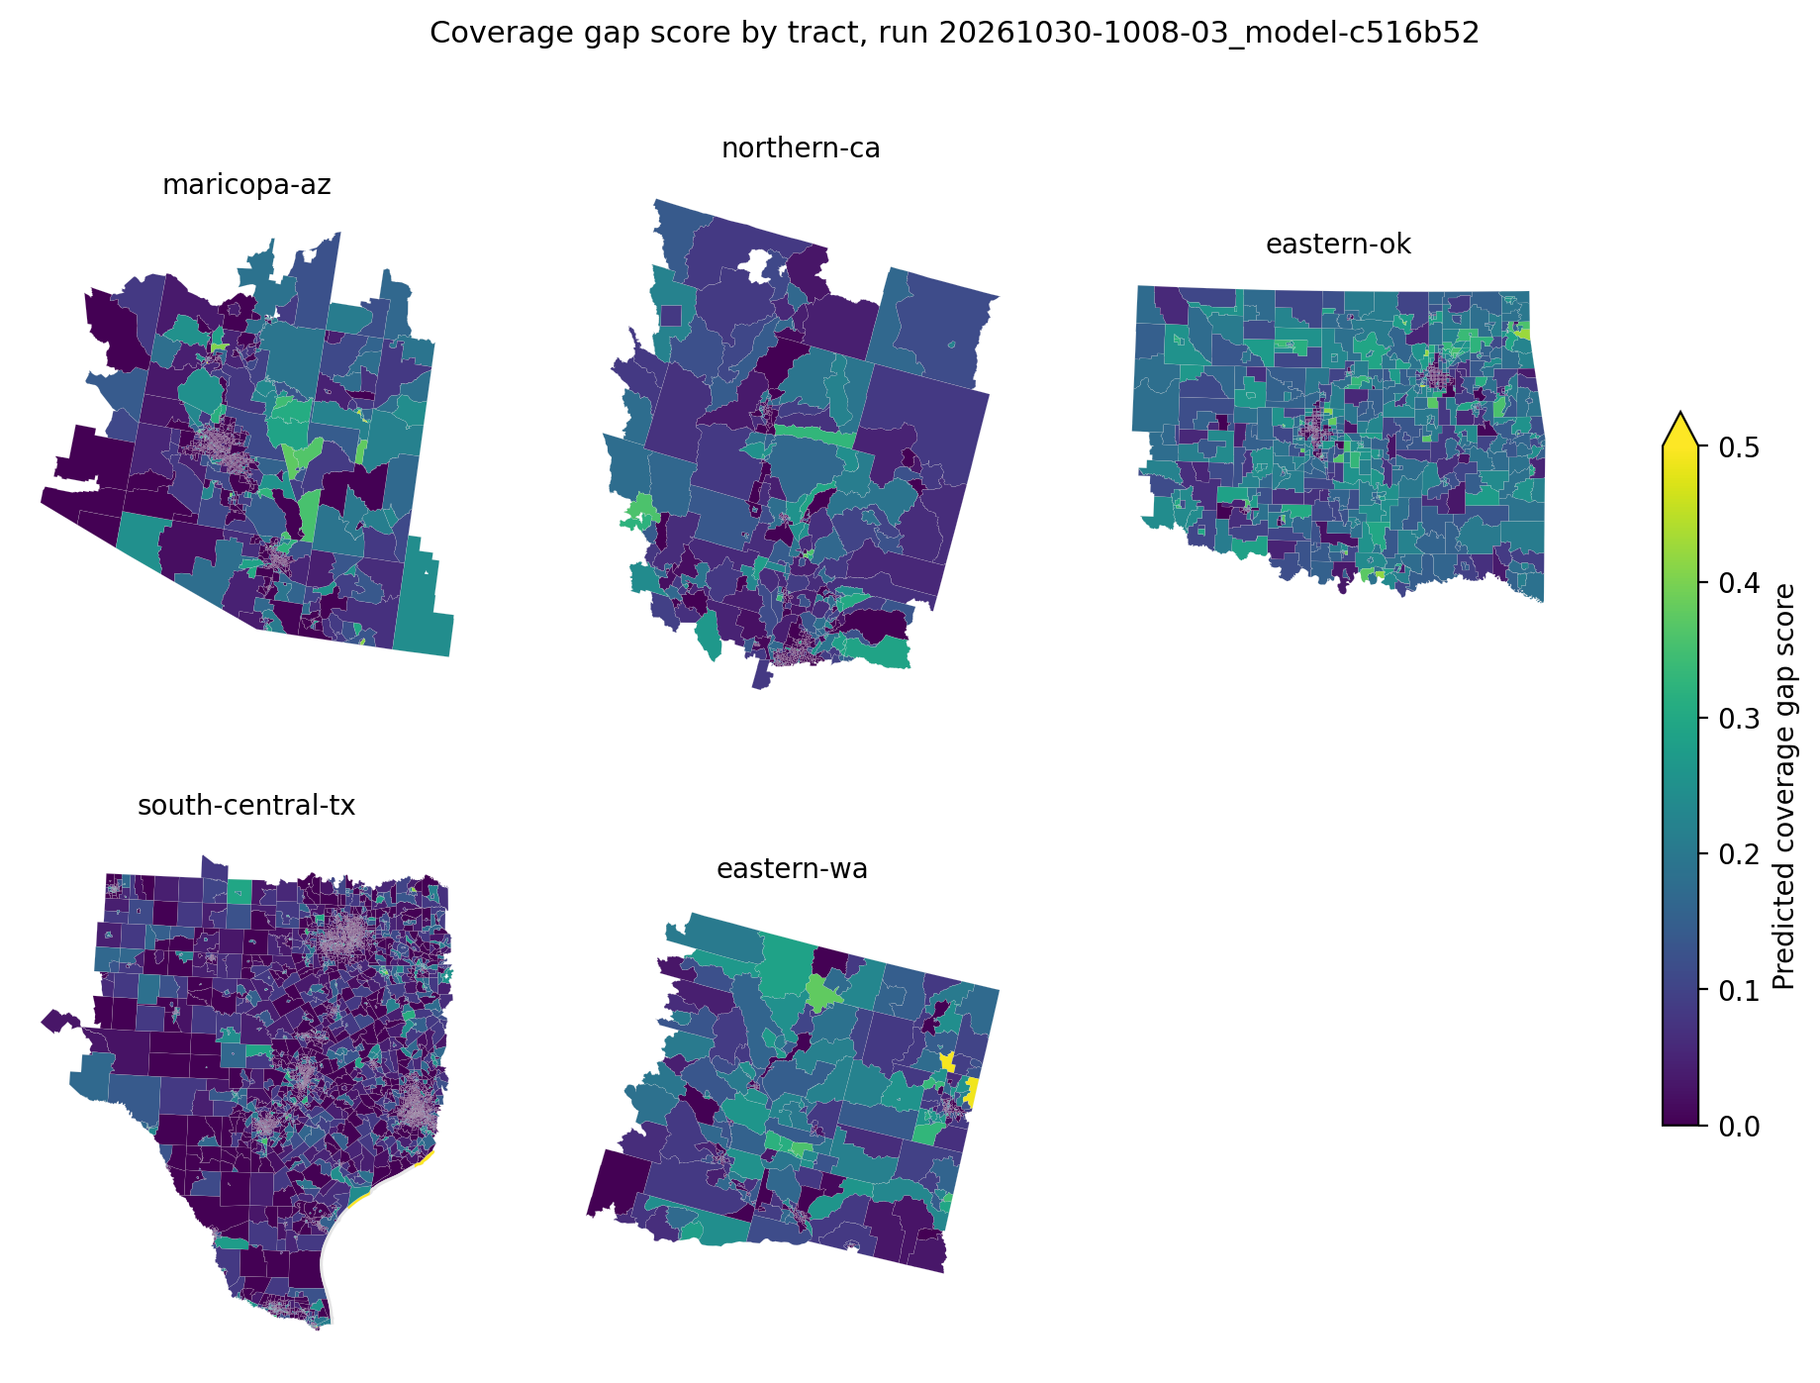
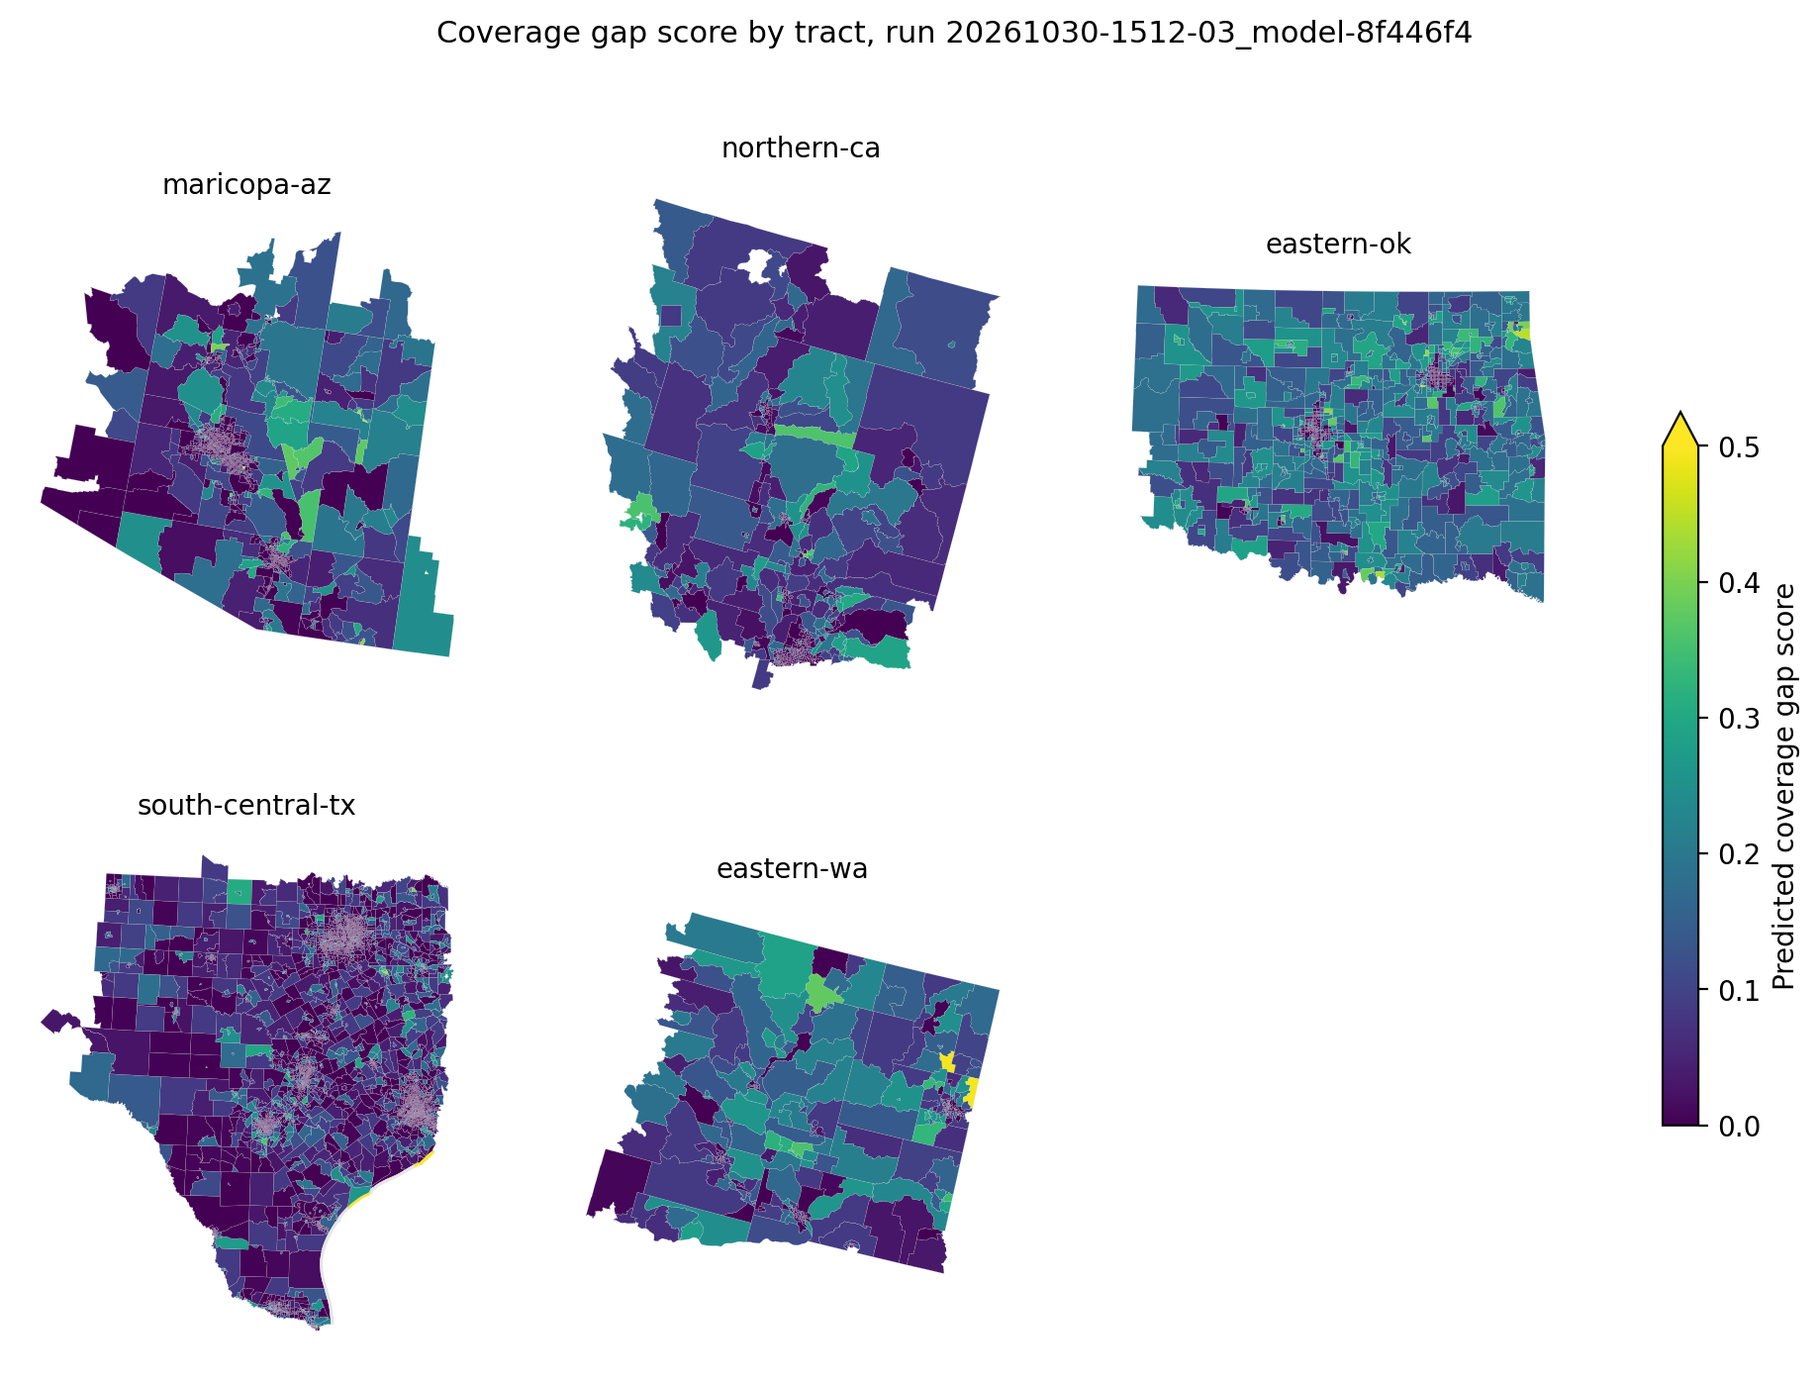
docs(writeup): make s25 final a and document global ml footprints

diff --git a/docs/writeup/methodology.tex b/docs/writeup/methodology.tex
@@ -31,7 +31,7 @@ Bias Bounty Mapping Equity Challenge}}
 
 \author[1]{Craig Carlos Ouma\thanks{%
 Correspondence: \texttt{craigcarlos95@gmail.com}. Zindi: \zindiuser. Final
-submissions: S24 (\texttt{EC3xBxjr}) and S19 (\texttt{Ekx9Rx3y}). Code:
+submissions: S25 (\texttt{2ncgdcQQ}) and S24 (\texttt{EC3xBxjr}). Code:
 private repository, released to Zindi reviewers on request.}}
 \affil[1]{Independent Researcher}
 \date{\today}
@@ -51,8 +51,10 @@ layers that the organisers removed from the challenge bucket on 25 September
 challenge package brought the public RMSE from 0.1072 for the all-zero file to
 0.0745. After Zindi staff confirmed on 27 October that the public versions of
 those layers could be used, the pipeline rebuilt the reference side of each component from those sources and
-reached 0.02996 (submission S19), then 0.02380 (S24) once ZIP establishment
-counts were apportioned to tracts by HUD business-address ratios. The rebuilt
+reached 0.02996 (submission S19), 0.02380 (S24) once ZIP establishment
+counts were apportioned to tracts by HUD business-address ratios, and 0.02152
+(S25) once the building reference was rebuilt from Microsoft's Global ML
+footprints. The rebuilt
 transport component reproduces
 the organisers' published undefined rates to within one percentage point in
 all four documented regions, and their published spread of road length ratios
@@ -101,8 +103,8 @@ Section~\ref{sec:scorecard} reflects on the scorecard and
 Section~\ref{sec:bias} presents the bias discovery.
 
 All submissions were made by Zindi user \zindiuser{}, entering solo.
-The two submissions selected for private scoring are S24 (public RMSE
-0.023796, Zindi ID \texttt{EC3xBxjr}) and S19 (0.029961, \texttt{Ekx9Rx3y}),
+The two submissions selected for private scoring are S25 (public RMSE
+0.021520, Zindi ID \texttt{2ncgdcQQ}) and S24 (0.023796, \texttt{EC3xBxjr}),
 described in Section~\ref{sec:final}; the
 others referred to in this paper are listed in Table~\ref{tab:history}.
 
@@ -160,20 +162,21 @@ if any reader bypasses it.
 \centering
 \small
 \caption{Reference sources rebuilt from their publishers. ``Final'' marks the
-sources used by the selected submissions S24 and S19.}
+sources used by the selected submissions S25 and S24.}
 \label{tab:sources}
 \resizebox{\textwidth}{!}{%
 \begin{tabular}{llll}
 \toprule
 Source & Vintage & Used for & Final \\
 \midrule
-Census TIGER/Line primary and secondary roads (S1100, S1200) & 2025 & transport reference & S24, S19 \\
-USGS National Map structures, fire stations (FCODE 74026) & 2026 & fire reference & S24, S19 \\
-USGS National Map structures, schools (FCODE 73002 to 73005) & 2026 & school reference & S24, S19 \\
-Census ZIP Code Business Patterns, establishments per ZIP & 2023 & establishments reference & S24 \\
-HUD USPS ZIP-TRACT crosswalk, business-address ratios & Q4 2024 & apportioning ZIP counts & S24 \\
+Census TIGER/Line primary and secondary roads (S1100, S1200) & 2025 & transport reference & S25, S24 \\
+USGS National Map structures, fire stations (FCODE 74026) & 2026 & fire reference & S25, S24 \\
+USGS National Map structures, schools (FCODE 73002 to 73005) & 2026 & school reference & S25, S24 \\
+Census ZIP Code Business Patterns, establishments per ZIP & 2023 & establishments reference & S25, S24 \\
+HUD USPS ZIP-TRACT crosswalk, business-address ratios & Q4 2024 & apportioning ZIP counts & S25, S24 \\
 Census 2020 ZCTA to tract relationship file & 2020 & apportioning ZIP counts (S20) & no \\
 USGS National Map structures, ambulance services (FCODE 74034) & 2026 & EMS reference (S21) & no \\
+Microsoft Global ML Building Footprints & 2026-02-03 & building reference & S25 \\
 Microsoft US Building Footprints & v2 & building reference (S18) & no \\
 HIFLD Open archive: fire and EMS stations, public and private schools & 2025 & S22 & no \\
 \bottomrule
@@ -206,7 +209,7 @@ Table~\ref{tab:stages} their measured cost.
   arr/.style={-{Stealth[length=2mm]}, draw=navy}]
 \node[box] (feat) at (4.2, 2.4) {02 features\\per-tract Overture};
 \node[ext] (est) at (4.2, 0.8) {07 establishments\\ZBP, HUD crosswalk};
-\node[ext] (ref) at (4.2, -0.8) {05 reference\\TIGER, Microsoft};
+\node[ext] (ref) at (4.2, -0.8) {05, 10 reference\\TIGER, Microsoft};
 \node[ext] (fac) at (4.2, -2.4) {06 facilities\\USGS structures};
 \node[box] (ingest) at (0, 0) {01 ingest\\bucket sync, audit};
 \node[box] (model) at (8.4, 0) {03 model\\components, composite};
@@ -240,9 +243,11 @@ Stage & Run & Wall (min) & Peak RSS (GB) \\
 05 reference & 20261027-2145-05\_reference-0add93b & 33.9 & 3.55 \\
 06 facilities & 20261028-0024-06\_facilities-8d8b042 & 8.7 & 0.49 \\
 07 establishments & 20261030-0946-07\_establishments-decc7f9 & 1.2 & 0.22 \\
+10 Global ML & 20261030-1127-10\_globalml-2221625 & 33.8 & 2.13 \\
+03 model (S25) & 20261030-1227-03\_model-45a6fcc & 1.7 & 0.56 \\
 03 model (S24) & 20261030-0947-03\_model-30d804e & 1.4 & 0.55 \\
-03 model (S19) & 20261028-0947-03\_model-672866c & 3.6 & 0.60 \\
 04 analysis & 20261030-1019-04\_analysis-8a838bb & 24.3 & 0.80 \\
+04 analysis (S25 map) & 20261030-1514-04\_analysis-7cec170 & 21.6 & 0.80 \\
 \bottomrule
 \end{tabular}
 \end{table}
@@ -325,16 +330,22 @@ Eastern Washington & 0.248 & n/a & 0.965 & 0.199 \\
 \subsection{Building}
 
 $O$ is the count of Overture footprints whose centroid falls in the tract and
-$R$ the Microsoft footprint count. The public Microsoft US Building Footprints
-v2 release was rebuilt per tract (S18); it gives a mean $B$ of 0.003 and
-raised the public RMSE from 0.0491 to 0.0546, so the organisers' footprint
-release differs from the public file in ways that matter at tract level. The
-final submissions therefore set $B = 0$ wherever Overture has footprints, and
-$B = 1$ where it has none and the tract is still expected to hold structures
-(Section~\ref{sec:edge}). $B$ is defined wherever Overture has footprints or
-ACS reports housing units. The level of $B$ is the one leaderboard-tuned
-scalar in S19: a constant baseline gap tested at 0.01 and 0.05 (S13), with 0
-chosen.
+$R$ the Microsoft footprint count, also by centroid. The public Microsoft US
+Building Footprints v2 release, rebuilt per tract (S18), gives a mean $B$ of
+0.003 and raised the public RMSE from 0.0491 to 0.0546. The centroid counting
+was checked independently: the Overture and US v2 counts per tract equal a
+competitor's published counts from the same public files in all 415 Eastern
+Washington tracts. The organisers' release is therefore a different one.
+Microsoft's Global ML Building Footprints \cite{globalml}, release 2026-02-03,
+downloaded by stage 10 as the zoom-9 quadkey files covering each region, holds
+6 to 17\,\% more footprints than US v2 in every region. Used as $R$ in S25,
+it makes $B$ positive in 31\,\% of tracts with a mean of 0.0056, changes 5,644
+tracts, and lowered the public RMSE from 0.0238 to 0.0215; the line search along
+S24 to S25 gave $t^\ast = 1.22$. $B$ is defined wherever Global ML has a
+footprint in the tract. S24 instead sets $B = 0$ wherever Overture has
+footprints and $B = 1$ where it has none and the tract holds housing units,
+with the level of $B$ the one leaderboard-tuned scalar it uses (a constant
+baseline gap tested at 0.01 and 0.05 in S13, with 0 chosen).
 
 \subsection{Points of interest}
 
@@ -401,7 +412,7 @@ probability is 0 or 1.
 \section{Edge cases}
 \label{sec:edge}
 
-\paragraph{Zero-population tracts.} Population enters no formula. In S24, $E$
+\paragraph{Zero-population tracts.} Population enters no formula. In S25 and S24, $E$
 is defined wherever the apportioned establishment count is positive, which
 holds in 22 of the 27 scored tracts without residents (airports, parks,
 industrial land); its gap is 0 in all of them because Overture holds more
@@ -414,11 +425,11 @@ dropped from the scored list by the organisers. Two remain,
 \texttt{48039990000} (Brazoria County) and \texttt{48057990000} (Calhoun
 County). Neither has residents, a TIGER primary or secondary road, a USGS
 fire station or school, an Overture place or an Overture footprint. The
-public Microsoft file holds five footprints in the first, likely offshore
-structures, and none in the second. Because a scored tract must have a
-defined component, the building component is the only one that can be
-defined, and with no Overture footprints its gap is 1. Both are written with $B = 1$ and a
-composite of 1.
+Global ML file holds one footprint in the first and 48 in the second, likely
+offshore and shoreline structures, so the building component is defined in
+both; with no Overture footprints its gap is 1. Both are written with $B = 1$
+and a composite of 1, which is also the only value consistent with a scored
+tract having a defined component.
 
 \paragraph{Tracts with no Overture data in a layer.} The Overture count or
 length is 0, so the gap is 1 wherever the reference is positive and the
@@ -479,12 +490,13 @@ S14 & Combined levels & 0.07454 & Best estimate-only method \\
 S15 & Fire stations drive the facility half & 0.07716 & Partly kept \\
 S17 & Transport rebuilt from TIGER 2025 & 0.04906 & Kept \\
 S18 & Building rebuilt from Microsoft US v2 & 0.05462 & Dropped \\
-S19 & Fire and school gaps from USGS structures, $E = 0$ & 0.02996 & Final B \\
+S19 & Fire and school gaps from USGS structures, $E = 0$ & 0.02996 & Superseded \\
 S20 & S19 with ZBP establishments apportioned by places & 0.03153 & Dropped \\
 S21 & S19 with EMS from USGS ambulance services & 0.04289 & Dropped \\
 S22 & S19 with HIFLD schools & 0.04136 & Dropped \\
 S23 & A competitor's published file, uploaded as a benchmark & 0.00227 & Not ours \\
-S24 & S19 with ZBP establishments apportioned by HUD business ratios & 0.02380 & Final A \\
+S24 & S19 with ZBP establishments apportioned by HUD business ratios & 0.02380 & Final B \\
+S25 & S24 with the building gap against Microsoft Global ML & 0.02152 & Final A \\
 \bottomrule
 \end{tabular}}
 \end{table}
@@ -513,7 +525,8 @@ The project allowed at most six global scalars tuned on the public
 leaderboard. Five were used during the estimation phase: the boundary
 distance (25\,m from 0, 25, 50), the POI level (0.779), the transport value
 scale (1.15), the building baseline gap (0 from 0.01 and 0.05) and the fire
-model strength (0.3). The rebuilt method uses only the building baseline gap.
+model strength (0.3). S25 uses none of them; S24 uses only the building
+baseline gap.
 
 \subsection{Final selection}
 \label{sec:final}
@@ -521,17 +534,19 @@ model strength (0.3). The rebuilt method uses only the building baseline gap.
 \begin{figure}[htbp]
 \centering
 \includegraphics[width=\textwidth]{fig_map_scores.png}
-\caption{S24 coverage gap score by tract, drawn by stage 04 from the S24
-reproduction run. Scores above 0.5 share the top colour.}
+\caption{S25 coverage gap score by tract, drawn by stage 04 from the S25
+reproduction run (analysis run \nolinkurl{20261030-1514-04_analysis-7cec170}). Scores above 0.5 share the top colour.}
 \label{fig:map_scores}
 \end{figure}
 
-Figure~\ref{fig:map_scores} maps the S24 scores.
+Figure~\ref{fig:map_scores} maps the S25 scores.
 
-S24 is the best public score of this pipeline and depends on one tuned
-scalar. S19 is the same method with the establishments half at 0. It differs
-from S24 in 253 tracts and hedges the private split against the case where the
-HUD apportionment fits the public tracts better than the private ones. S23 was
+S25 is the best public score of this pipeline and depends on no tuned
+scalar: every component is computed from a public reference. S24 is the same
+method with the building gap held at 0 where Overture has footprints. It
+differs from S25 in 5,644 tracts by small amounts and hedges the private split
+against the case where the Global ML reference fits the public tracts better
+than the private ones. S23 was
 a competitor's published file, uploaded once to see its score. It was not
 produced by this pipeline, its inputs include the organisers' removed
 reference files, and it is not selected.
@@ -542,10 +557,10 @@ reference files, and it is not selected.
 The scorecard reports disparity ratios of the predicted score between strata.
 For the all-zero file every ratio was unavailable. Under the estimation phase
 (S13) the tribal ratio was 1.30 and the rural ratio 1.25. On the scorecard for
-S24 they are 2.92 for tribal against non-tribal tracts, 2.42 for rural against
-urban, 1.22 for high social vulnerability, 1.46 for high climate
-vulnerability and 1.81 for wildfire hazard, with summer heat the one stratum
-where the gap is smaller (0.54). The rise comes
+S25 they are 2.85 for tribal against non-tribal tracts, 2.41 for rural against
+urban, 1.21 for high social vulnerability, 1.46 for high climate
+vulnerability, 1.47 for winter drought and 1.81 for wildfire hazard, with
+summer heat the one stratum where the gap is smaller (0.56). The rise comes
 mostly from transport in Eastern Oklahoma, where 805 of 1,192 scored tracts
 overlap a tribal area and the mean transport gap where defined is 0.355,
 against 0.123 in South-Central Texas, and from fire stations, whose gap where
@@ -758,11 +773,11 @@ The gap form in Equation~\ref{eq:gap} is taken from the organisers'
 description and README; their code was not available. The establishments
 apportionment is undocumented; the HUD business-address ratios fit it well
 ($t^\ast = 1.17$), but the organisers' crosswalk quarter and Business
-Patterns year are unknown. The organisers' Microsoft footprint release is unknown, and
-the public release made the score worse, so the building component is held
-at 0 where Overture has footprints. The TIGER 2025 and USGS 2026 files may
+Patterns year are unknown. The Global ML release fits the building reference
+($t^\ast = 1.22$), but the organisers may have used an earlier one. The TIGER
+2025 and USGS 2026 files may
 differ from the vintages the organisers used, and their EMS reference could
-not be rebuilt from public data. The remaining public error of 0.024 sits in
+not be rebuilt from public data. The remaining public error of 0.0215 sits in
 these components. The bias discovery uses Overture names as
 published. A road may carry a name in a local addressing system that
 Overture does not hold; in that case the open map lacks the name, which is
@@ -773,20 +788,20 @@ the gap being measured.
 Code, configuration and logs are in a private git repository that will be
 released to Zindi reviewers on request. Every compute stage runs on Kaggle
 from a code dataset built from a clean commit, with the commit hash written to
-each output. The final submissions come from commits \texttt{30d804e} (S24)
-and \texttt{672866c} (S19) with the overrides in Table~\ref{tab:overrides}.
+each output. The final submissions come from commits \texttt{45a6fcc} (S25)
+and \texttt{30d804e} (S24) with the overrides in Table~\ref{tab:overrides}.
 Python 3.13.15 on the Kaggle image, DuckDB 1.5.4, numpy 2.1.3, pandas 2.3.3;
 the full \texttt{pip freeze} is saved with each run. The seed is 20261025 for
 every random generator. The rebuilt components involve no random draws. Both
 final configurations were rerun on Kaggle from later code with
-\texttt{make reproduce}: S19 on 29 October (run
-\texttt{20261029-2244-03\_model-50be6bb}) and S24 on 30 October (run
-\texttt{20261030-1008-03\_model-c516b52}). Each output matched the uploaded
+\texttt{make reproduce} on 30 October: S24 (run
+\texttt{20261030-1008-03\_model-c516b52}) and S25 (run
+\texttt{20261030-1512-03\_model-8f446f4}). Each output matched the uploaded
 file in every cell, with a largest float difference of 0 and no differing
 flag. Runtimes and
 memory are in Table~\ref{tab:stages}. The commands are
 \texttt{make kaggle-run STAGE=<stage> SET="<overrides>"} for each stage in
-the order 01, 02, 05, 06, 07, 03.
+the order 01, 02, 05, 06, 07, 10, 03.
 
 \begin{table}[htbp]
 \centering
@@ -797,9 +812,10 @@ the order 01, 02, 05, 06, 07, 03.
 \toprule
 Submission & Overrides on \texttt{configs/model.yaml} \\
 \midrule
-S24 & \texttt{transport.source=tiger building.baseline\_gap=0 poi.source=reference} \\
-    & \texttt{poi.reference\_types=[fire,schools] poi.establishment\_weight=bus} \\
-S19 & as S24 with \texttt{poi.establishment\_weight=none} \\
+S25 & \texttt{transport.source=tiger building.source=microsoft building.count=globalml} \\
+    & \texttt{poi.source=reference poi.reference\_types=[fire,schools]} \\
+    & \texttt{poi.establishment\_weight=bus} \\
+S24 & as S25 with \texttt{building.source=proxy building.baseline\_gap=0} \\
 \bottomrule
 \end{tabular}
 \end{table}
@@ -844,6 +860,11 @@ US Department of Housing and Urban Development. HUD USPS ZIP Code
 Crosswalk Files, ZIP-TRACT, fourth quarter 2024. Archived copy: DataLumos
 project 219325, version V2, retrieved 29 October 2026.
 \url{https://www.datalumos.org/datalumos/project/219325/version/V2/view}
+
+\bibitem{globalml}
+Microsoft (2026). Global ML Building Footprints, release 2026-02-03. Index
+retrieved 30 October 2026.
+\url{https://minedbuildings.z5.web.core.windows.net/global-buildings/dataset-links.csv}
 
 \bibitem{msbuildings}
 Microsoft (2020). US Building Footprints, version 2.

diff --git a/docs/writeup/bias_discovery.tex b/docs/writeup/bias_discovery.tex
@@ -30,8 +30,8 @@ the Bias Scorecard Cannot See}}
 
 \author[1]{Craig Carlos Ouma\thanks{%
 Correspondence: \texttt{craigcarlos95@gmail.com}. Zindi: \zindiuser{} (solo).
-Leaderboard submissions tied to the methodology: S24 (\texttt{EC3xBxjr}) and
-S19 (\texttt{Ekx9Rx3y}).
+Leaderboard submissions tied to the methodology: S25 (\texttt{2ncgdcQQ}) and
+S24 (\texttt{EC3xBxjr}).
 Entry for Best Bias Discovery, Bias Bounty Mapping Equity Challenge. The
 full methodology is submitted separately for Best Documentation.}}
 \affil[1]{Independent Researcher}

diff --git a/scripts/plot_submissions.py b/scripts/plot_submissions.py
@@ -9,7 +9,7 @@ import matplotlib
 matplotlib.use("Agg")
 import matplotlib.pyplot as plt  # noqa: E402
 
-PHASES = [(1, 1, "Constant"), (2, 16, "Estimated components"), (17, 24, "Reference rebuilt")]
+PHASES = [(1, 1, "Constant"), (2, 16, "Estimated components"), (17, 25, "Reference rebuilt")]
 # S23 was a competitor's published file uploaded as a benchmark, not a submission of this pipeline.
 EXCLUDE = {23}
 COLORS = ["#440154", "#21918c", "#fde725"]

diff --git a/docs/experiments.md b/docs/experiments.md
@@ -93,3 +93,4 @@ high tier and B-only tracts as a mid tier with calibrated definedness (D019).
 | 20261030-1127-10_globalml-2221625 | 10_globalml | 2221625 | defaults | complete | 33.8 | 2.13 |
 | 20261030-1227-03_model-45a6fcc | 03_model | 45a6fcc | transport.source=tiger building.source=microsoft building.count=globalml poi.source=reference poi.reference_types=[fire,schools] poi.establishment_weight=bus | complete | 1.7 | 0.56 |
 | 20261030-1512-03_model-8f446f4 | 03_model | 8f446f4 | transport.source=tiger building.source=microsoft building.count=globalml poi.source=reference poi.reference_types=[fire,schools] poi.establishment_weight=bus | complete | 1.3 | 0.57 |
+| 20261030-1514-04_analysis-7cec170 | 04_analysis | 7cec170 | defaults | complete | 21.6 | 0.8 |
